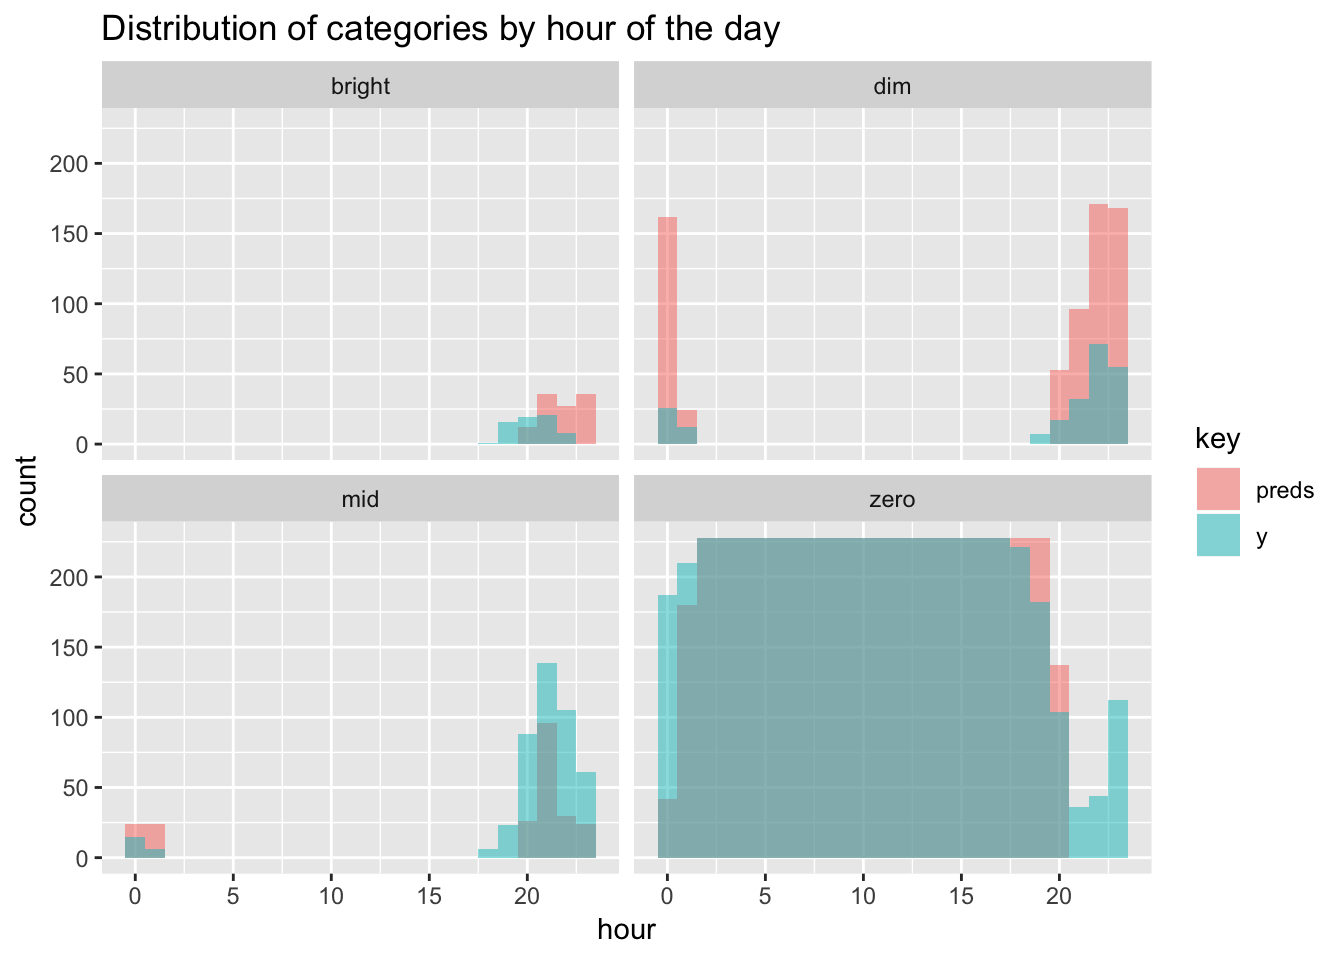
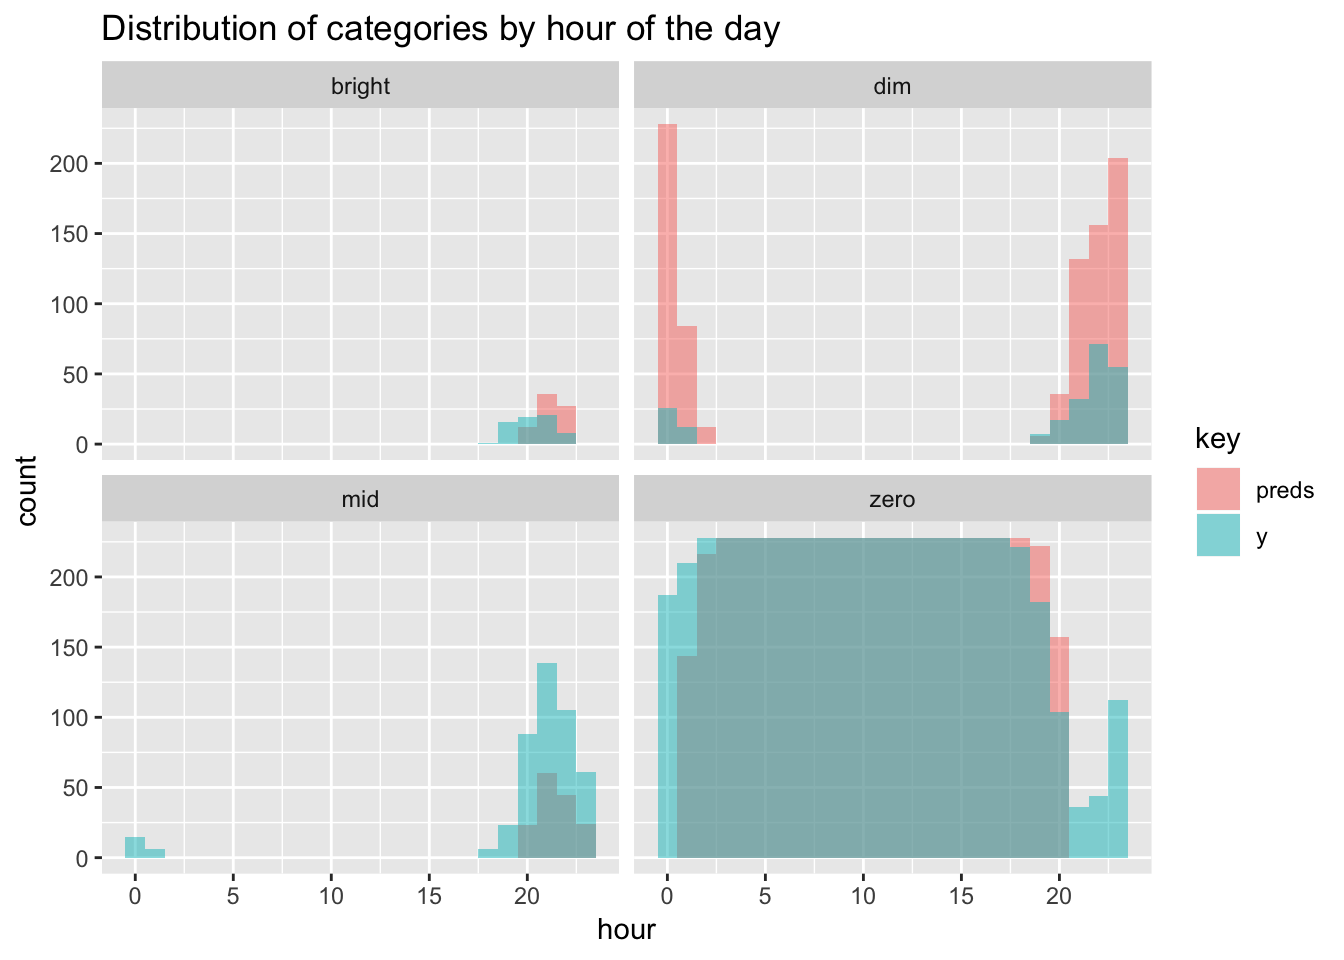
disqus fix try

diff --git a/blog/self-learning-hue-lights/index.html b/blog/self-learning-hue-lights/index.html
@@ -44,10 +44,10 @@
 
 
     
-    <link rel="stylesheet" href="../../css/reset.css?t=1538501446">
-    <link rel="stylesheet" href="../../css/main.css?t=1538501446">
+    <link rel="stylesheet" href="../../css/reset.css?t=1538502323">
+    <link rel="stylesheet" href="../../css/main.css?t=1538502323">
     
-        <link rel="stylesheet" href="../../css/override.css?t=1538501446">
+        <link rel="stylesheet" href="../../css/override.css?t=1538502323">
     
 
 
@@ -277,10 +277,10 @@ gbmFit &lt;- train(y ~ ., data = training,
 table(preds, testing$y)</code></pre>
 <pre><code>##         
 ## preds     dim  mid bright zero
-##   dim     101  230     34  309
-##   mid      45   71      6  102
-##   bright   34   50      0   27
-##   zero     40   92     25 4306</code></pre>
+##   dim     133  215     30  480
+##   mid      37   74      6   35
+##   bright   20   49      0    6
+##   zero     30  105     29 4223</code></pre>
 <p>Most mistakes are made trying to classify bright and mid. The model gets 0 bright values right and only manages to do so correctly 14% of the time for mid. But when do errors happen? To dig a little deeper let’s look at the previous histogram of categories by hour again for the test set, but now with the predictions overlaid on top.</p>
 <p><img src="../../blog/2017/2017-05-14-hue_files/figure-html/unnamed-chunk-11-1.png" width="672" /></p>
 <p>Bright values were always going be hard to guess, but the model at least comes close in terms of hours, but off on the exact days. The majority of misclassification comes from overzealously predicting dim in the evening and around midnight, when it should really be either mid or zero. That looks like a workable scenario for me.</p>

diff --git a/blog/a-tidy-text-analysis-of-rick-and-morty/index.html b/blog/a-tidy-text-analysis-of-rick-and-morty/index.html
@@ -44,10 +44,10 @@
 
 
     
-    <link rel="stylesheet" href="../../css/reset.css?t=1538501446">
-    <link rel="stylesheet" href="../../css/main.css?t=1538501446">
+    <link rel="stylesheet" href="../../css/reset.css?t=1538502323">
+    <link rel="stylesheet" href="../../css/main.css?t=1538502323">
     
-        <link rel="stylesheet" href="../../css/override.css?t=1538501446">
+        <link rel="stylesheet" href="../../css/override.css?t=1538502323">
     
 
 
@@ -225,9 +225,9 @@ bigram_graph &lt;- df %&gt;%
 <pre><code>## Warning in graph_from_data_frame(.): In `d&#39; `NA&#39; elements were replaced
 ## with string &quot;NA&quot;</code></pre>
 <pre class="r"><code>print(bigram_graph)</code></pre>
-<pre><code>## IGRAPH 42d5fd6 DN-- 311 283 -- 
+<pre><code>## IGRAPH 04215db DN-- 311 283 -- 
 ## + attr: name (v/c), season (e/c), n (e/n)
-## + edges from 42d5fd6 (vertex names):
+## + edges from 04215db (vertex names):
 ## [1] NA      -&gt;NA      NA      -&gt;NA      NA      -&gt;NA      tiny    -&gt;rick   
 ## [5] yeah    -&gt;yeah   
 ##  [ reached getOption(&quot;max.print&quot;) -- omitted 21 entries ]

diff --git a/blog/an-animated-neural-net-implementation/index.html b/blog/an-animated-neural-net-implementation/index.html
@@ -44,10 +44,10 @@
 
 
     
-    <link rel="stylesheet" href="../../css/reset.css?t=1538501446">
-    <link rel="stylesheet" href="../../css/main.css?t=1538501446">
+    <link rel="stylesheet" href="../../css/reset.css?t=1538502323">
+    <link rel="stylesheet" href="../../css/main.css?t=1538502323">
     
-        <link rel="stylesheet" href="../../css/override.css?t=1538501446">
+        <link rel="stylesheet" href="../../css/override.css?t=1538502323">
     
 
 

diff --git a/blog/analyzing-my-spotify-listening-history/index.html b/blog/analyzing-my-spotify-listening-history/index.html
@@ -44,10 +44,10 @@
 
 
     
-    <link rel="stylesheet" href="../../css/reset.css?t=1538501446">
-    <link rel="stylesheet" href="../../css/main.css?t=1538501446">
+    <link rel="stylesheet" href="../../css/reset.css?t=1538502323">
+    <link rel="stylesheet" href="../../css/main.css?t=1538502323">
     
-        <link rel="stylesheet" href="../../css/override.css?t=1538501446">
+        <link rel="stylesheet" href="../../css/override.css?t=1538502323">
     
 
 

diff --git a/blog/creating-a-spotify-playlist-using-luigi/index.html b/blog/creating-a-spotify-playlist-using-luigi/index.html
@@ -44,10 +44,10 @@
 
 
     
-    <link rel="stylesheet" href="../../css/reset.css?t=1538501446">
-    <link rel="stylesheet" href="../../css/main.css?t=1538501446">
+    <link rel="stylesheet" href="../../css/reset.css?t=1538502323">
+    <link rel="stylesheet" href="../../css/main.css?t=1538502323">
     
-        <link rel="stylesheet" href="../../css/override.css?t=1538501446">
+        <link rel="stylesheet" href="../../css/override.css?t=1538502323">
     
 
 

diff --git a/blog/dockerized-shiny-app-development/index.html b/blog/dockerized-shiny-app-development/index.html
@@ -44,10 +44,10 @@
 
 
     
-    <link rel="stylesheet" href="../../css/reset.css?t=1538501446">
-    <link rel="stylesheet" href="../../css/main.css?t=1538501446">
+    <link rel="stylesheet" href="../../css/reset.css?t=1538502323">
+    <link rel="stylesheet" href="../../css/main.css?t=1538502323">
     
-        <link rel="stylesheet" href="../../css/override.css?t=1538501446">
+        <link rel="stylesheet" href="../../css/override.css?t=1538502323">
     
 
 

diff --git a/blog/interpretable-gdpr-classifiers/index.html b/blog/interpretable-gdpr-classifiers/index.html
@@ -44,10 +44,10 @@
 
 
     
-    <link rel="stylesheet" href="../../css/reset.css?t=1538501446">
-    <link rel="stylesheet" href="../../css/main.css?t=1538501446">
+    <link rel="stylesheet" href="../../css/reset.css?t=1538502323">
+    <link rel="stylesheet" href="../../css/main.css?t=1538502323">
     
-        <link rel="stylesheet" href="../../css/override.css?t=1538501446">
+        <link rel="stylesheet" href="../../css/override.css?t=1538502323">
     
 
 

diff --git a/blog/lightweight-streaming-analytics-with-nats/index.html b/blog/lightweight-streaming-analytics-with-nats/index.html
@@ -44,10 +44,10 @@
 
 
     
-    <link rel="stylesheet" href="../../css/reset.css?t=1538501446">
-    <link rel="stylesheet" href="../../css/main.css?t=1538501446">
+    <link rel="stylesheet" href="../../css/reset.css?t=1538502323">
+    <link rel="stylesheet" href="../../css/main.css?t=1538502323">
     
-        <link rel="stylesheet" href="../../css/override.css?t=1538501446">
+        <link rel="stylesheet" href="../../css/override.css?t=1538502323">
     
 
 

diff --git a/blog/parallelizing-r-code-on-kubernetes/index.html b/blog/parallelizing-r-code-on-kubernetes/index.html
@@ -44,10 +44,10 @@
 
 
     
-    <link rel="stylesheet" href="../../css/reset.css?t=1538501446">
-    <link rel="stylesheet" href="../../css/main.css?t=1538501446">
+    <link rel="stylesheet" href="../../css/reset.css?t=1538502323">
+    <link rel="stylesheet" href="../../css/main.css?t=1538502323">
     
-        <link rel="stylesheet" href="../../css/override.css?t=1538501446">
+        <link rel="stylesheet" href="../../css/override.css?t=1538502323">
     
 
 

diff --git a/blog/starting-a-blogdown/index.html b/blog/starting-a-blogdown/index.html
@@ -44,10 +44,10 @@
 
 
     
-    <link rel="stylesheet" href="../../css/reset.css?t=1538501446">
-    <link rel="stylesheet" href="../../css/main.css?t=1538501446">
+    <link rel="stylesheet" href="../../css/reset.css?t=1538502323">
+    <link rel="stylesheet" href="../../css/main.css?t=1538502323">
     
-        <link rel="stylesheet" href="../../css/override.css?t=1538501446">
+        <link rel="stylesheet" href="../../css/override.css?t=1538502323">
     
 
 

diff --git a/categories/r/index.html b/categories/r/index.html
@@ -44,10 +44,10 @@
 
 
     
-    <link rel="stylesheet" href="../../css/reset.css?t=1538501446">
-    <link rel="stylesheet" href="../../css/main.css?t=1538501446">
+    <link rel="stylesheet" href="../../css/reset.css?t=1538502323">
+    <link rel="stylesheet" href="../../css/main.css?t=1538502323">
     
-        <link rel="stylesheet" href="../../css/override.css?t=1538501446">
+        <link rel="stylesheet" href="../../css/override.css?t=1538502323">
     
 
 

diff --git a/tags/ai/index.html b/tags/ai/index.html
@@ -44,10 +44,10 @@
 
 
     
-    <link rel="stylesheet" href="../../css/reset.css?t=1538501446">
-    <link rel="stylesheet" href="../../css/main.css?t=1538501446">
+    <link rel="stylesheet" href="../../css/reset.css?t=1538502323">
+    <link rel="stylesheet" href="../../css/main.css?t=1538502323">
     
-        <link rel="stylesheet" href="../../css/override.css?t=1538501446">
+        <link rel="stylesheet" href="../../css/override.css?t=1538502323">
     
 
 
